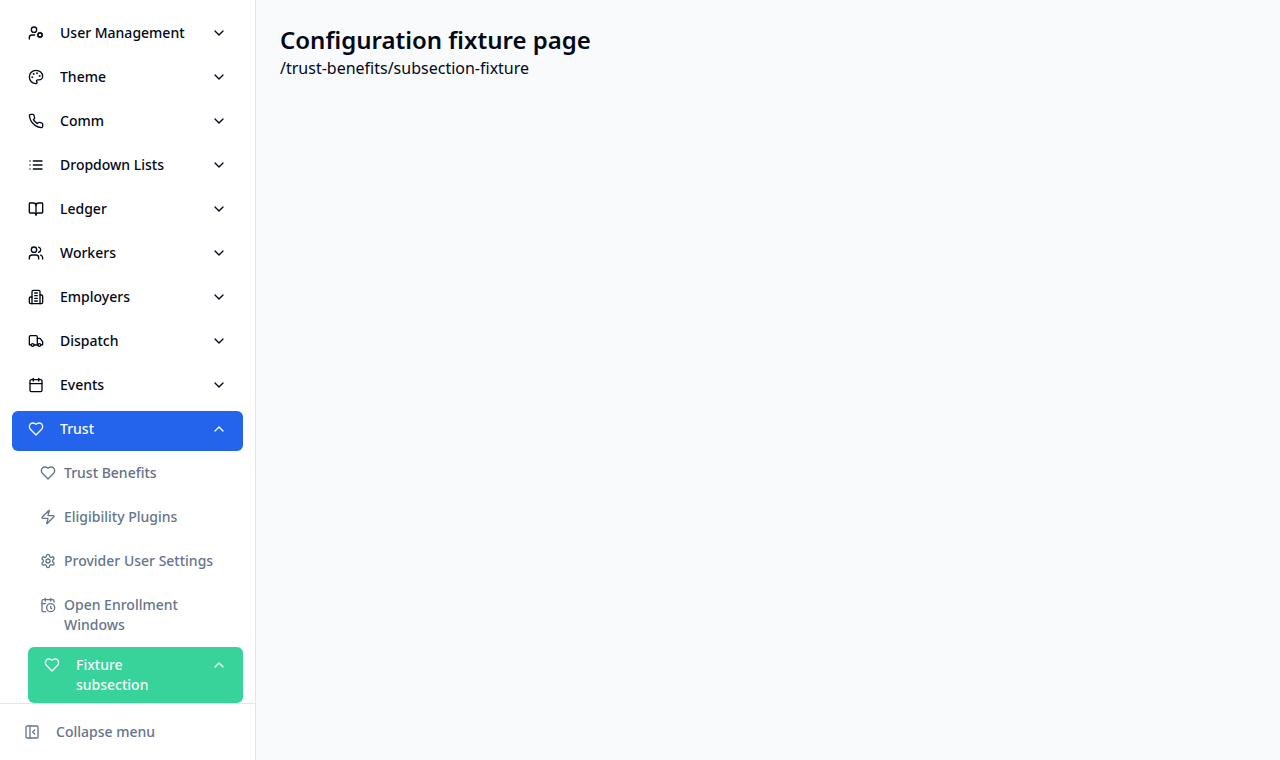
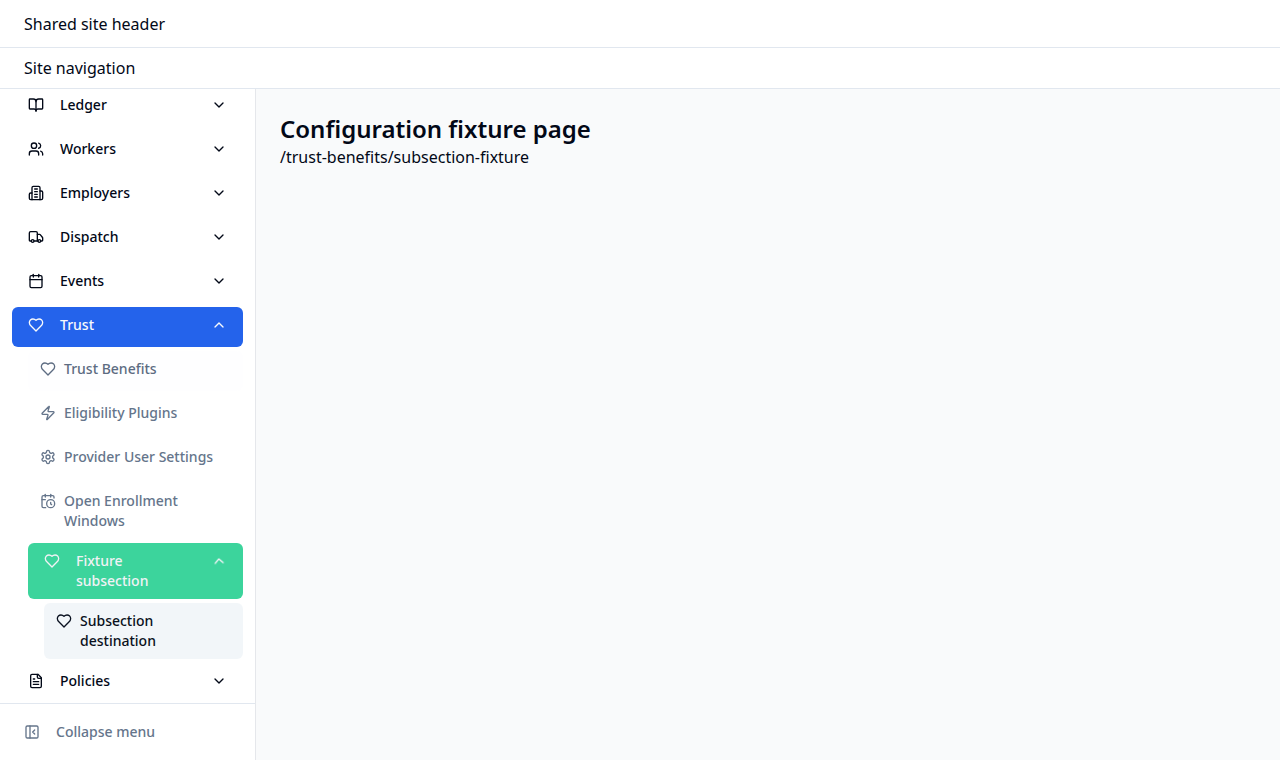
Keep configuration toggle visible beneath dynamic page chrome with desktop and mobile browser coverage
Replit-Task-Id: a5ef63c1-19ad-45cd-9c02-29fbc200ed1a
Replit-Merge-Attempt: MergeTask:a5ef63c1-19ad-45cd-9c02-29fbc200ed1a:1:b77aeb08

Changed region(s): [[0.0, 0.0303, 0.1875, 0.9382], [0.2188, 0.0303, 0.4688, 0.1211], [0.2188, 0.1513, 0.4688, 0.2118]]

diff --git a/client/src/components/layouts/ConfigurationLayout.tsx b/client/src/components/layouts/ConfigurationLayout.tsx
@@ -9,7 +9,7 @@ import {
 import { Popover, PopoverContent, PopoverTrigger } from "@/components/ui/popover";
 import { Tooltip, TooltipContent, TooltipProvider, TooltipTrigger } from "@/components/ui/tooltip";
 import { Portal as TooltipPortal } from "@radix-ui/react-tooltip";
-import { createContext, useContext, useEffect, useMemo, useState } from "react";
+import { createContext, useContext, useEffect, useLayoutEffect, useMemo, useRef, useState } from "react";
 import {
   findActiveItemPath,
   isPathInSection,
@@ -44,6 +44,7 @@ export default function ConfigurationLayout({ children }: ConfigurationLayoutPro
 }
 
 function ConfigurationLayoutContents({ children }: ConfigurationLayoutProps) {
+  const layoutRef = useRef<HTMLDivElement>(null);
   const [location] = useLocation();
   const [desktopMenuOpen, setDesktopMenuOpen] = useState(loadConfigurationMenuOpen);
   const [mobileMenuOpen, setMobileMenuOpen] = useState(false);
@@ -68,6 +69,53 @@ function ConfigurationLayoutContents({ children }: ConfigurationLayoutProps) {
   const [sectionState, setSectionState] = useState(() =>
     createConfigurationSectionOpenState(location, activeSectionIds),
   );
+
+  useLayoutEffect(() => {
+    if (!isDesktop || !layoutRef.current) return;
+    const layout = layoutRef.current;
+    // The header is in normal document flow (and can grow for masquerading).
+    // Measure the layout's visible top, not a hard-coded header height. As the
+    // document scrolls, the sticky sidebar can use the newly available space.
+    const measure = () => {
+      const top = Math.max(0, layout.getBoundingClientRect().top);
+      layout.style.setProperty("--configuration-top", `${top}px`);
+    };
+    let frame = 0;
+    const scheduleMeasure = () => {
+      cancelAnimationFrame(frame);
+      frame = requestAnimationFrame(measure);
+    };
+    measure();
+    const observer = new ResizeObserver(scheduleMeasure);
+    // Any preceding normal-flow sibling, at any ancestor level, can move us
+    // without resizing us (notably the asynchronously loaded HelpDisplay).
+    // Observe their sizes and refresh the set when siblings are added/removed.
+    const observePrecedingContent = () => {
+      observer.disconnect();
+      observer.observe(layout);
+      for (let node: Element | null = layout; node && node !== document.body; node = node.parentElement) {
+        for (let sibling = node.previousElementSibling; sibling; sibling = sibling.previousElementSibling) {
+          observer.observe(sibling, { box: "border-box" });
+        }
+      }
+      scheduleMeasure();
+    };
+    const mutations = new MutationObserver(observePrecedingContent);
+    for (let parent = layout.parentElement; parent; parent = parent.parentElement) {
+      mutations.observe(parent, { childList: true });
+    }
+    observePrecedingContent();
+    window.addEventListener("scroll", scheduleMeasure, { passive: true });
+    window.addEventListener("resize", scheduleMeasure);
+    return () => {
+      cancelAnimationFrame(frame);
+      observer.disconnect();
+      mutations.disconnect();
+      window.removeEventListener("scroll", scheduleMeasure);
+      window.removeEventListener("resize", scheduleMeasure);
+      layout.style.removeProperty("--configuration-top");
+    };
+  }, [isDesktop]);
 
   useEffect(() => {
     const media = window.matchMedia("(min-width: 768px)");
@@ -248,12 +296,12 @@ function ConfigurationLayoutContents({ children }: ConfigurationLayoutProps) {
 
   return (
     <TooltipProvider delayDuration={300}>
-      <div className="relative flex min-h-[100dvh] min-w-0 bg-gray-50 dark:bg-gray-900">
+      <div ref={layoutRef} className="relative flex min-h-[100dvh] min-w-0 bg-gray-50 dark:bg-gray-900 md:min-h-[calc(100dvh-var(--configuration-top,0px))]">
         {mobileMenuOpen && <button type="button" className="fixed inset-0 z-30 bg-black/50 md:hidden" aria-label="Close configuration menu" onClick={() => setMobileMenuOpen(false)} />}
         <aside
           id="configuration-menu"
           className={cn(
-            "z-40 shrink-0 flex-col border-r border-gray-200 bg-white dark:border-gray-800 dark:bg-gray-950 md:sticky md:top-0 md:flex md:h-[100dvh] md:transition-[width] md:duration-200 motion-reduce:md:transition-none",
+            "z-40 shrink-0 flex-col border-r border-gray-200 bg-white dark:border-gray-800 dark:bg-gray-950 md:sticky md:top-[var(--configuration-top,0px)] md:flex md:h-[calc(100dvh-var(--configuration-top,0px))] md:transition-[width] md:duration-200 motion-reduce:md:transition-none",
             desktopMenuOpen ? "md:w-64" : "md:w-14",
             mobileMenuOpen ? "fixed inset-y-0 left-0 flex w-72" : "hidden",
           )}

diff --git a/tests/config-navigation/browser.html b/tests/config-navigation/browser.html
@@ -6,6 +6,12 @@
     <title>Configuration navigation browser fixture</title>
   </head>
   <body>
+    <!-- Match Header's normal-flow 48px banner + 40px desktop nav + border.
+         Keep this outside the React root so initial-load geometry is realistic. -->
+    <header id="site-header" class="border-b bg-white dark:bg-gray-950">
+      <div class="flex h-12 items-center border-b px-6">Shared site header</div>
+      <nav class="hidden h-10 items-center px-6 md:flex">Site navigation</nav>
+    </header>
     <div id="root"></div>
     <script type="module" src="/tests/config-navigation/browser-entry.tsx"></script>
   </body>

diff --git a/.agents/memory/browser-fixture-lifecycle.md b/.agents/memory/browser-fixture-lifecycle.md
@@ -8,3 +8,9 @@ Report browser failures before awaiting fixture-server cleanup, and bound cleanu
 **Why:** Vite shutdown waited on unfinished transforms after releasing its handles; Node exited with code 13, hiding the original navigation failure. A cold frontend compile also exceeded a short navigation timeout.
 
 **How to apply:** For standalone browser runners, distinguish navigation time from interaction time and print the primary error before cleanup. After confirming or cancelling a Radix alert, wait until its portal disappears before typing into the underlying editor: value hydration can complete while the closing overlay still intercepts clicks.
+
+Assert initial viewport geometry before clicking or focusing the control being tested, and include the surrounding page chrome in layout fixtures.
+
+**Why:** Browser automation can scroll an offscreen control into view before interacting with it, masking a first-load placement defect. An isolated sidebar without its normal-flow header can also pass while the real page fails.
+
+**How to apply:** Check bounding rectangles and document scroll position before interaction; cover both saved menu states, variable-height headers, and asynchronous siblings above the tested layout. ResizeObserver reports size changes, not position-only shifts caused by newly inserted siblings.
